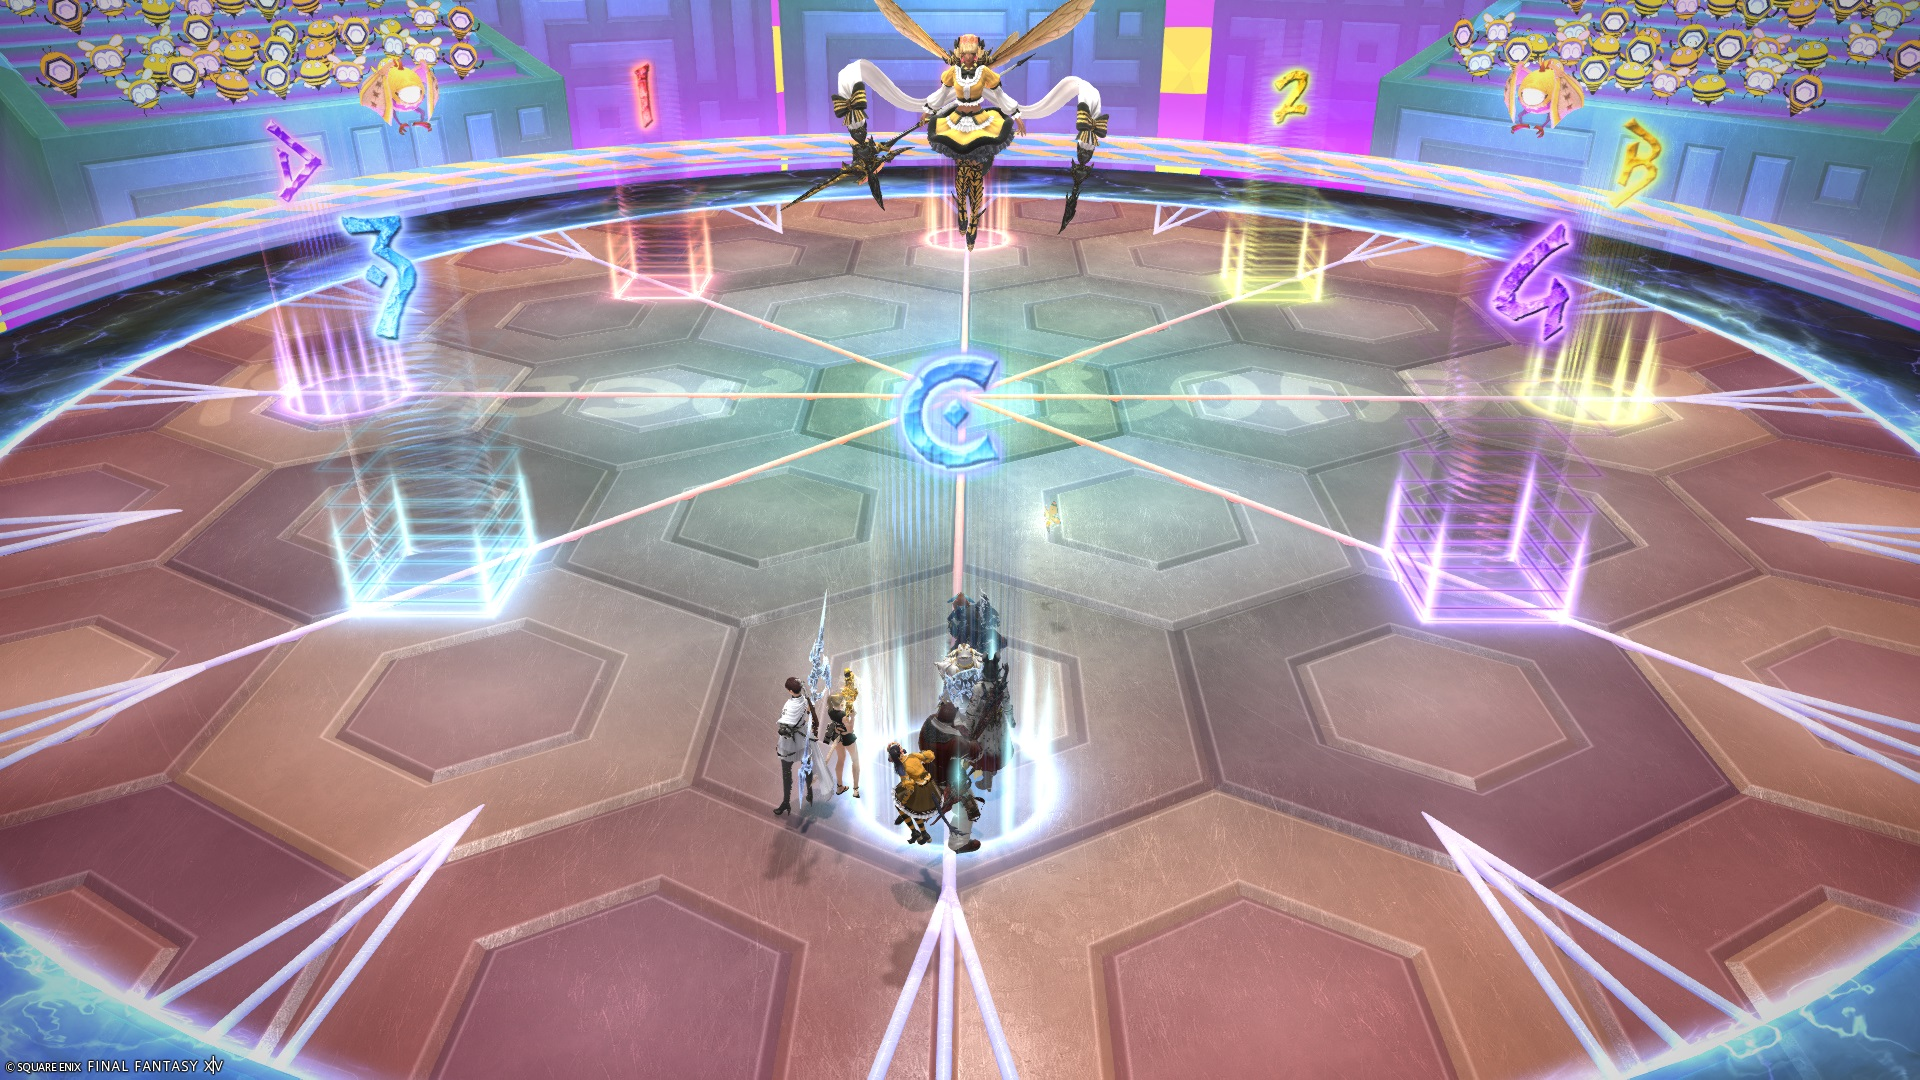
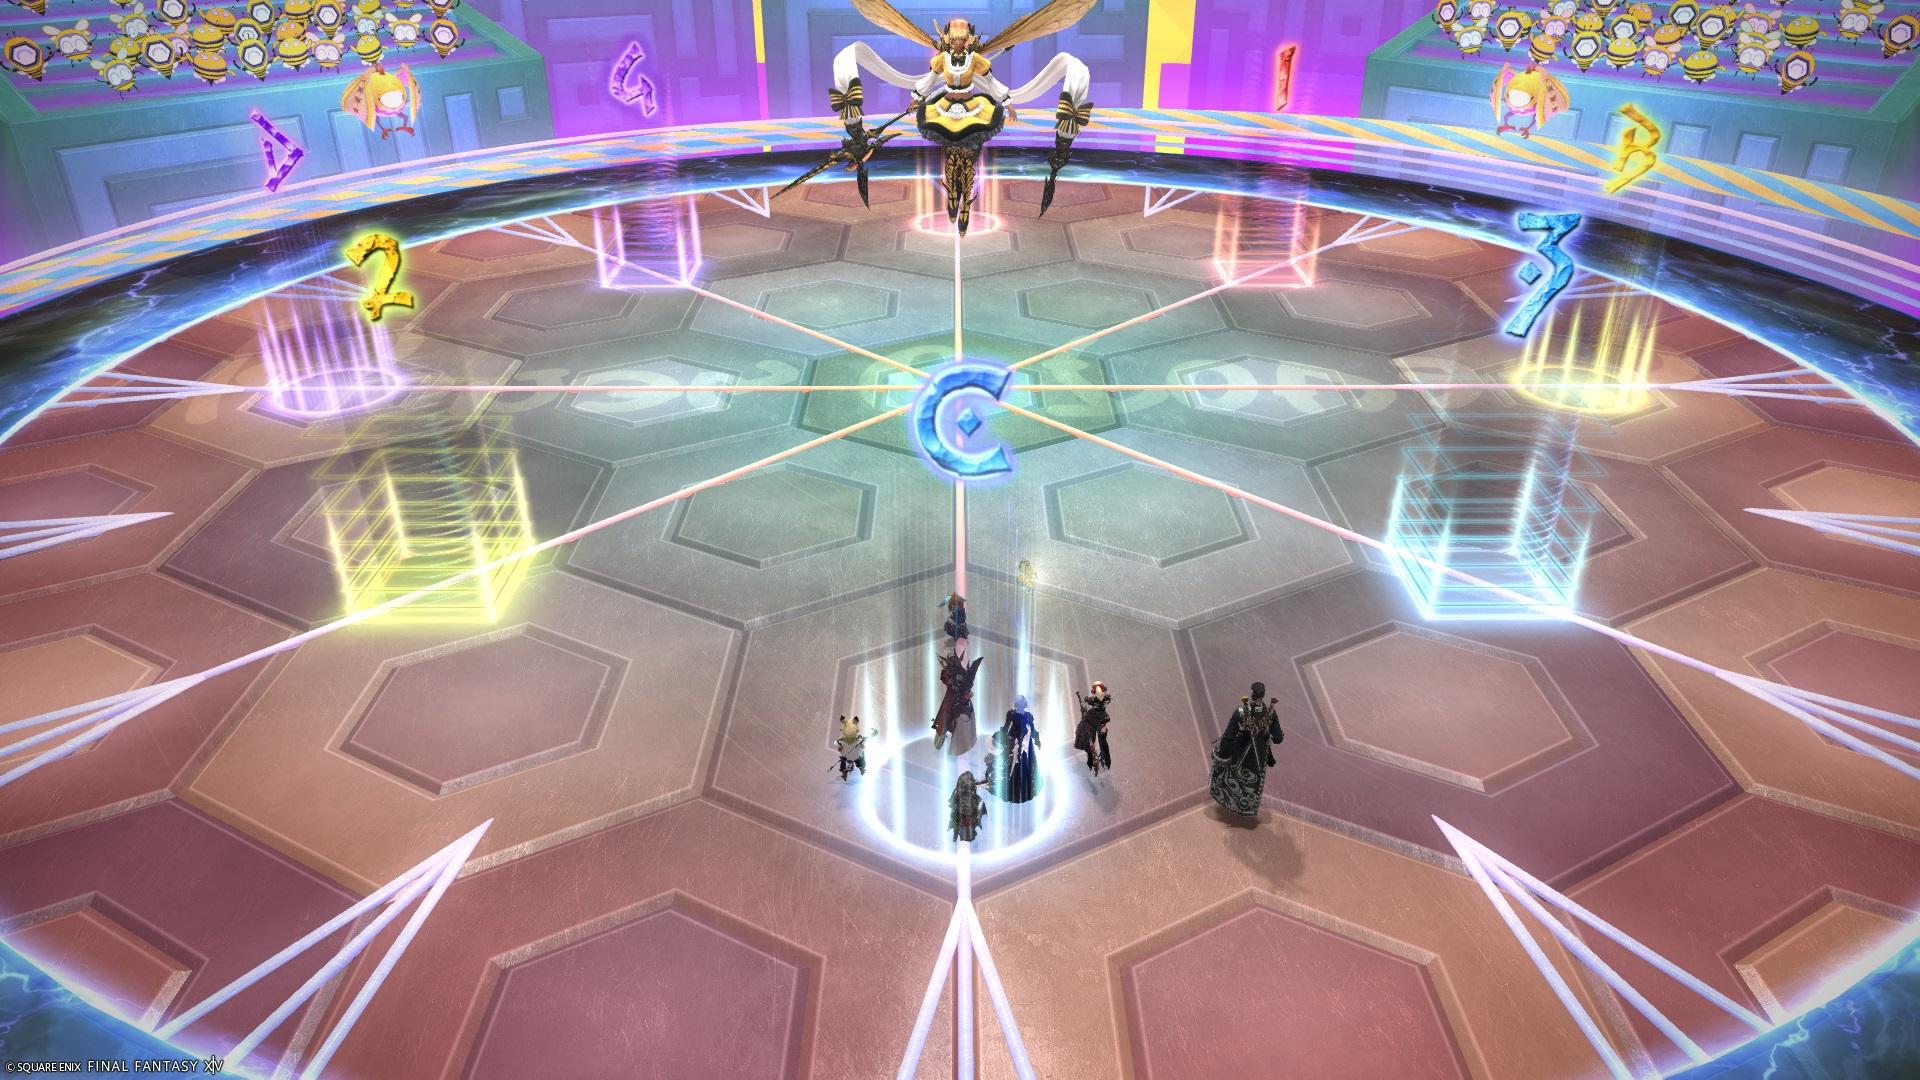
Update markers

diff --git a/_current/m2s.en.md b/_current/m2s.en.md
@@ -52,10 +52,10 @@ to stay up to date with the discussion.
   "B":{"X":114.0,"Y":0.0,"Z":100.0,"ID":1,"Active":true},
   "C":{"X":100.0,"Y":0.0,"Z":114.0,"ID":2,"Active":true},
   "D":{"X":86.0,"Y":0.0,"Z":100.0,"ID":3,"Active":true},
-  "One":{"X":91.375,"Y":0.0,"Z":91.375,"ID":4,"Active":true},
-  "Two":{"X":108.625,"Y":0.0,"Z":91.375,"ID":5,"Active":true},
+  "One":{"X":108.625,"Y":0.0,"Z":91.375,"ID":5,"Active":true},
+  "Two":{"X":91.375,"Y":0.0,"Z":108.625,"ID":6,"Active":true},
   "Three":{"X":108.625,"Y":0.0,"Z":108.625,"ID":7,"Active":true},
-  "Four":{"X":91.375,"Y":0.0,"Z":108.625,"ID":6,"Active":true}
+  "Four":{"X":91.375,"Y":0.0,"Z":91.375,"ID":4,"Active":true}
 }
 ```
 
